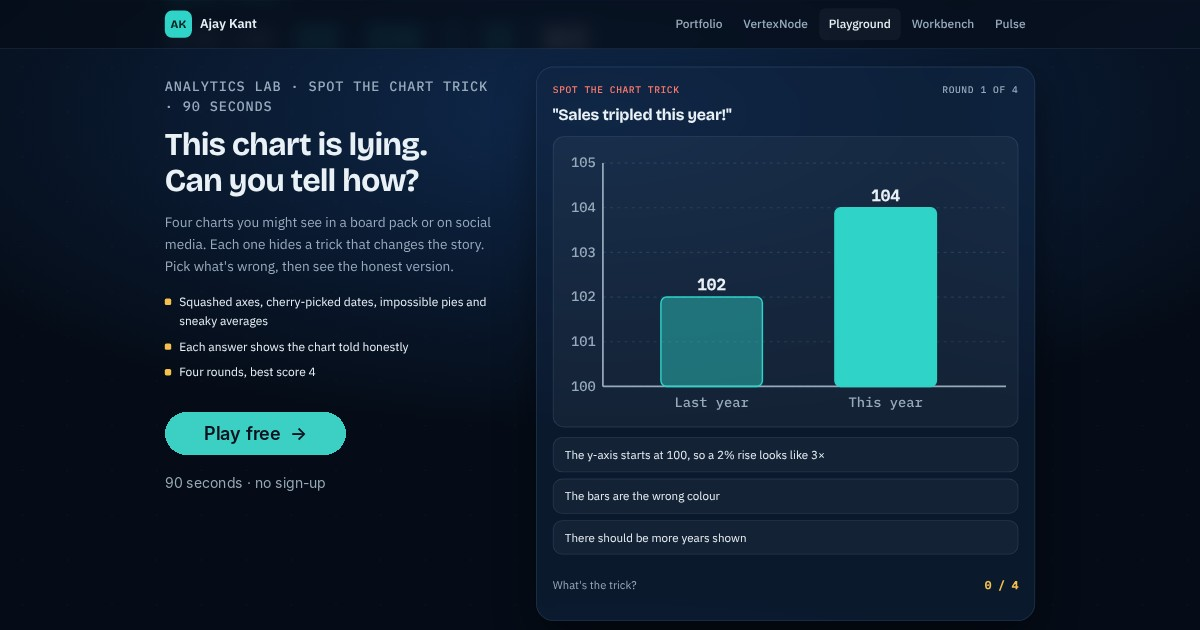
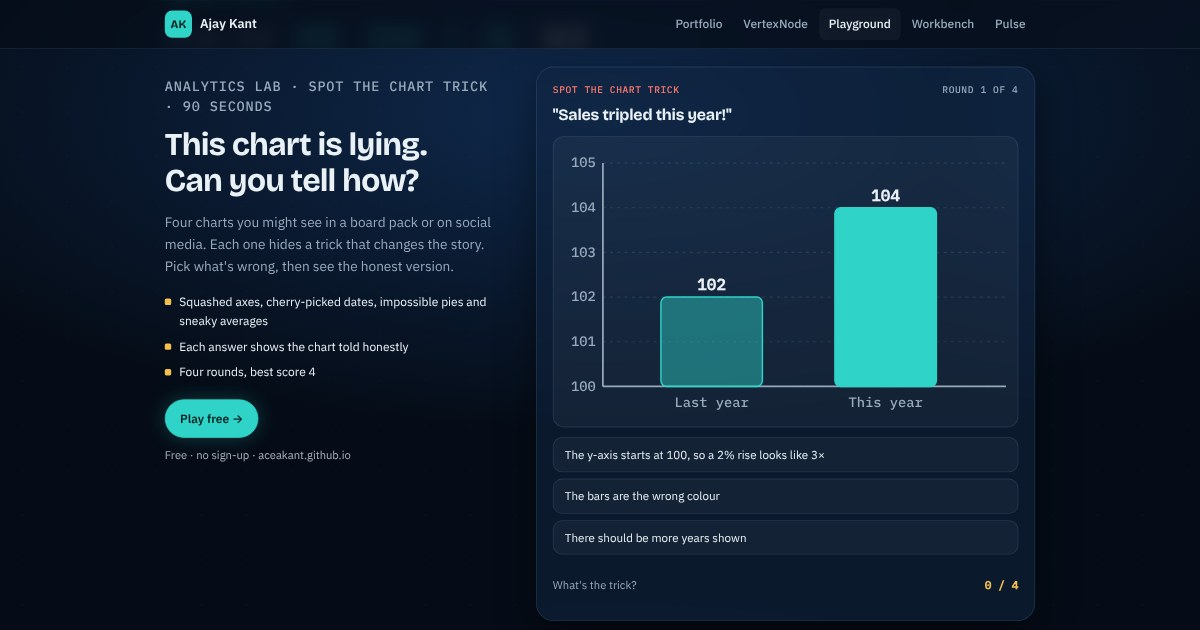
Playground games on LinkedIn every 3rd day for 90 days
- content/game-posts.yaml: 8 games, 4 text styles, schedule from 11 Nov 2026
- play/<game>.html share links with the real game screen as preview
- scripts/game_posts.py posts the due slot from the hourly publish job
- Spot the fraud now in dollars and international terms

Claude-Session: https://claude.ai/code/session_01PApz595udu2nZo8zVHWhG7

Changed region(s): [[0.1233, 0.6333, 0.3083, 0.7841]]

diff --git a/scripts/game_shots.js b/scripts/game_shots.js
@@ -1,0 +1,29 @@
+// Takes the link-preview picture for each game's share link: the real game screen, plus a "Play free" button.
+//   python3 -m http.server 8765 -d _site &   node scripts/game_shots.js
+const { chromium } = require("playwright");
+const fs = require("fs"), yaml = require("path");
+const games = fs.readFileSync("content/game-posts.yaml", "utf8").split("\n").filter(l => /^  - id: /.test(l)).map(l => l.split(": ")[1].trim());
+const labs = fs.readFileSync("content/game-posts.yaml", "utf8").split("\n").filter(l => /^    lab: /.test(l)).map(l => l.split(": ")[1].trim());
+(async () => {
+  const b = await chromium.launch();
+  for (let i = 0; i < games.length; i++) {
+    const p = await b.newPage({ viewport: { width: 1500, height: 788 }, deviceScaleFactor: 0.8, colorScheme: "dark" });
+    await p.goto(`http://localhost:8765/${labs[i]}.html#${games[i]}`, { waitUntil: "networkidle" });
+    await p.addStyleTag({ content: "*{transition:none!important;animation:none!important}" });
+    await p.evaluate((id) => {
+      document.querySelectorAll("body *").forEach(e => { if (getComputedStyle(e).position === "fixed" && !e.closest("header")) e.style.display = "none"; });
+      const st = document.querySelector(`.game-stage[data-game="${id}"]`) || document;
+      const copy = st.querySelector(".play-copy"), game = st.querySelector(".game");
+      const a = document.createElement("div");
+      a.innerHTML = '<span class="btn" style="margin-top:22px;pointer-events:none">Play free →</span><span style="display:block;margin-top:10px;font-size:14px;opacity:.7">Free · no sign-up · aceakant.github.io</span>';
+      copy.appendChild(a);
+      const h = document.querySelector("header"), hh = h ? h.getBoundingClientRect().height : 0;
+      window.scrollTo(0, Math.min(copy.getBoundingClientRect().top, game.getBoundingClientRect().top) + scrollY - hh - 22);
+    }, games[i]);
+    await p.waitForTimeout(600);
+    await p.screenshot({ path: `site/static/og/game-${games[i]}.jpg`, type: "jpeg", quality: 88 });
+    await p.close();
+    console.log("shot", games[i]);
+  }
+  await b.close();
+})();

diff --git a/scripts/game_posts.py b/scripts/game_posts.py
@@ -1,0 +1,102 @@
+"""Posts one Playground game on Ajay's LinkedIn every 3rd day for 90 days (content/game-posts.yaml).
+Run by the hourly publish job: posts the slot that has come due (at most one per run) and records it in
+content/game-posts-log.txt so nothing posts twice. A slot missed by more than a day is skipped, not posted late.
+    python3 scripts/game_posts.py --plan     # print the full schedule with each post's text (posts nothing)
+"""
+import datetime
+import os
+import sys
+import pathlib
+
+import requests
+import yaml
+
+ROOT = pathlib.Path(__file__).resolve().parent.parent
+sys.path.insert(0, str(ROOT / "agents"))
+from linkedin_agent import API, _headers, escape  # noqa: E402
+
+IST = datetime.timezone(datetime.timedelta(hours=5, minutes=30))
+CFG = ROOT / "content" / "game-posts.yaml"
+LOG = ROOT / "content" / "game-posts-log.txt"
+
+
+def plan():
+    c = yaml.safe_load(CFG.read_text())
+    base = yaml.safe_load((ROOT / "config.yaml").read_text())["site"]["base_url"].rstrip("/")
+    games, styles, start = c["games"], c["styles"], datetime.date.fromisoformat(c["start"])
+    slots = []
+    for n in range(c["days"] // c["every_days"]):
+        day = start + datetime.timedelta(days=n * c["every_days"])
+        hh, mm = map(int, (c["saturday_time"] if day.weekday() == 5 else c["time"]).split(":"))
+        g, style = games[n % len(games)], styles[(n // len(games)) % len(styles)]
+        url = f"{base}/play/{g['id']}.html"
+        text = style["text"].format(url=url, **{k: g[k] for k in ("hook", "teaser", "more", "blurb", "lesson", "time")})
+        slots.append(dict(n=n + 1, when=datetime.datetime(day.year, day.month, day.day, hh, mm, tzinfo=IST), game=g, style=style["name"],
+                          url=url, text=text, tags=g.get("hashtags", [])))
+    return c, slots
+
+
+def commentary(s):
+    """Plain text -> LinkedIn's post format: escape special characters, keep the link clickable, real hashtags."""
+    body = escape(s["text"]).replace(escape(s["url"]), s["url"])
+    if s["tags"]:
+        body += "\n\n" + " ".join("{hashtag|\\#|%s}" % t for t in s["tags"])
+    return body
+
+
+def post(s):
+    token, version = os.environ["LINKEDIN_ACCESS_TOKEN"], yaml.safe_load((ROOT / "config.yaml").read_text())["linkedin"]["api_version"]
+    me = requests.get(f"{API}/v2/userinfo", headers={"Authorization": f"Bearer {token}"}, timeout=30)
+    me.raise_for_status()
+    author = f"urn:li:person:{me.json()['sub']}"
+    init = requests.post(f"{API}/rest/images?action=initializeUpload", headers=_headers(token, version),
+                         json={"initializeUploadRequest": {"owner": author}}, timeout=30)
+    init.raise_for_status()
+    upload_url, image = init.json()["value"]["uploadUrl"], init.json()["value"]["image"]
+    pic = ROOT / "site" / "static" / "og" / f"game-{s['game']['id']}.jpg"
+    requests.put(upload_url, data=pic.read_bytes(), headers={"Authorization": f"Bearer {token}"}, timeout=120).raise_for_status()
+    common = {"author": author, "commentary": commentary(s), "visibility": "PUBLIC", "lifecycleState": "PUBLISHED", "isReshareDisabledByAuthor": False,
+              "distribution": {"feedDistribution": "MAIN_FEED", "targetEntities": [], "thirdPartyDistributionChannels": []}}
+    # a link card (the real game screen, the whole card opens the game); if LinkedIn refuses that, the same picture as an image post
+    for content in ({"article": {"source": s["url"], "title": s["game"]["title"], "description": s["game"]["description"], "thumbnail": image}},
+                    {"media": {"id": image, "altText": s["game"]["title"]}}):
+        r = requests.post(f"{API}/rest/posts", headers=_headers(token, version), json={**common, "content": content}, timeout=30)
+        if r.status_code in (200, 201):
+            return r.headers.get("x-restli-id", "posted")
+        print(f"LinkedIn refused ({r.status_code}): {r.text[:300]}")
+    raise RuntimeError("LinkedIn post failed")
+
+
+def main():
+    c, slots = plan()
+    if "--plan" in sys.argv:
+        for s in slots:
+            print(f"#{s['n']:>2}  {s['when']:%a %d %b %Y %H:%M} IST  {s['game']['id']}  ({s['style']})\n{s['text']}\n{' '.join('#' + t for t in s['tags'])}\n")
+        return
+    if not c.get("enabled"):
+        return
+    done = {int(line.split()[0]) for line in LOG.read_text().splitlines() if line.strip()} if LOG.exists() else set()
+    now = datetime.datetime.now(IST)
+    due = [s for s in slots if s["when"] <= now and s["n"] not in done and s["n"] not in c.get("skip", [])]
+    if not due:
+        return
+    s = due[-1]
+    with LOG.open("a") as f:
+        for old in due[:-1]:
+            f.write(f"{old['n']} {old['when']:%Y-%m-%d} {old['game']['id']} skipped-missed\n")
+        if now - s["when"] > datetime.timedelta(hours=24):
+            f.write(f"{s['n']} {s['when']:%Y-%m-%d} {s['game']['id']} skipped-missed\n")
+        elif os.environ.get("DRY_RUN") == "1" or not os.environ.get("LINKEDIN_ACCESS_TOKEN"):
+            print("DRY RUN, not posted:\n" + s["text"])
+            return
+        else:
+            f.write(f"{s['n']} {s['when']:%Y-%m-%d} {s['game']['id']} {post(s)}\n")
+            print(f"Posted game #{s['n']}: {s['game']['id']}")
+    out = os.environ.get("GITHUB_OUTPUT")
+    if out:
+        with open(out, "a") as f:
+            f.write("changed=true\n")
+
+
+if __name__ == "__main__":
+    main()

diff --git a/site/build.py b/site/build.py
@@ -253,10 +253,9 @@ def build():
 
     # one-game share links for LinkedIn posts: their own preview picture and headline, then straight into the game
     base = config["site"]["base_url"].rstrip("/")
-    for slug, lab, title, desc in (
-        ("chart-tricks", "analytics-lab", "This chart is lying. Can you tell how?",
-         "4 charts, 4 tricks, 90 seconds. Spot what each one hides before it fools your boss. Free, no sign-up."),
-    ):
+    from html import escape as _esc
+    for g in yaml.safe_load((ROOT / "content" / "game-posts.yaml").read_text())["games"]:
+        slug, lab, title, desc = g["id"], g["lab"], _esc(g["title"]), _esc(g["description"])
         target = f"/{lab}.html#{slug}"
         (OUT / "play").mkdir(exist_ok=True)
         (OUT / "play" / f"{slug}.html").write_text(
